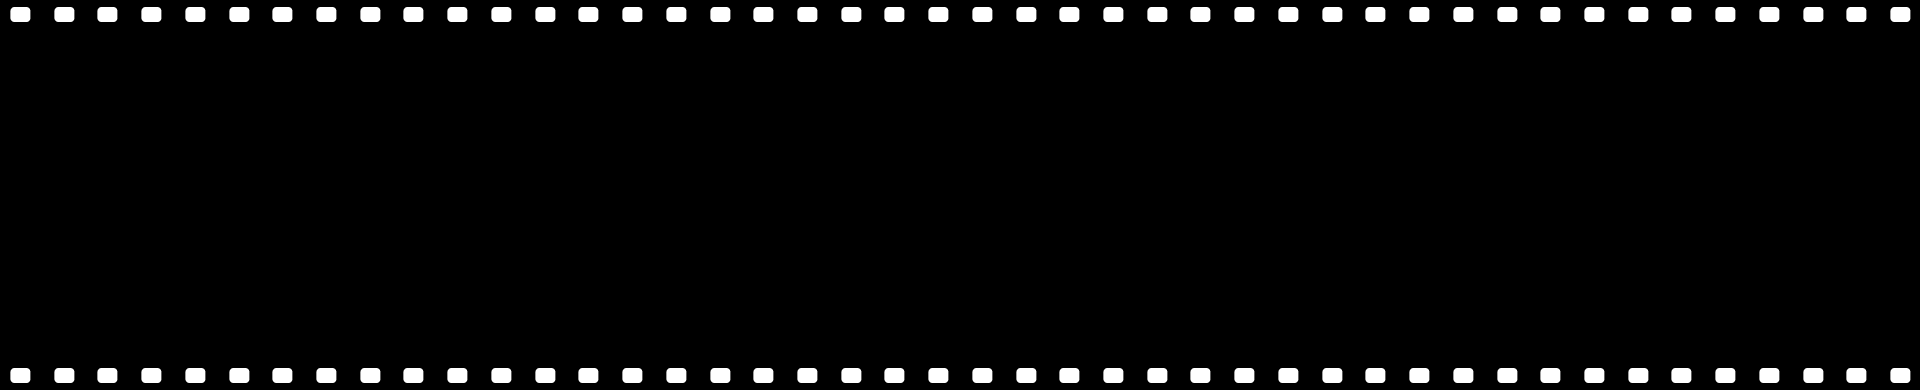
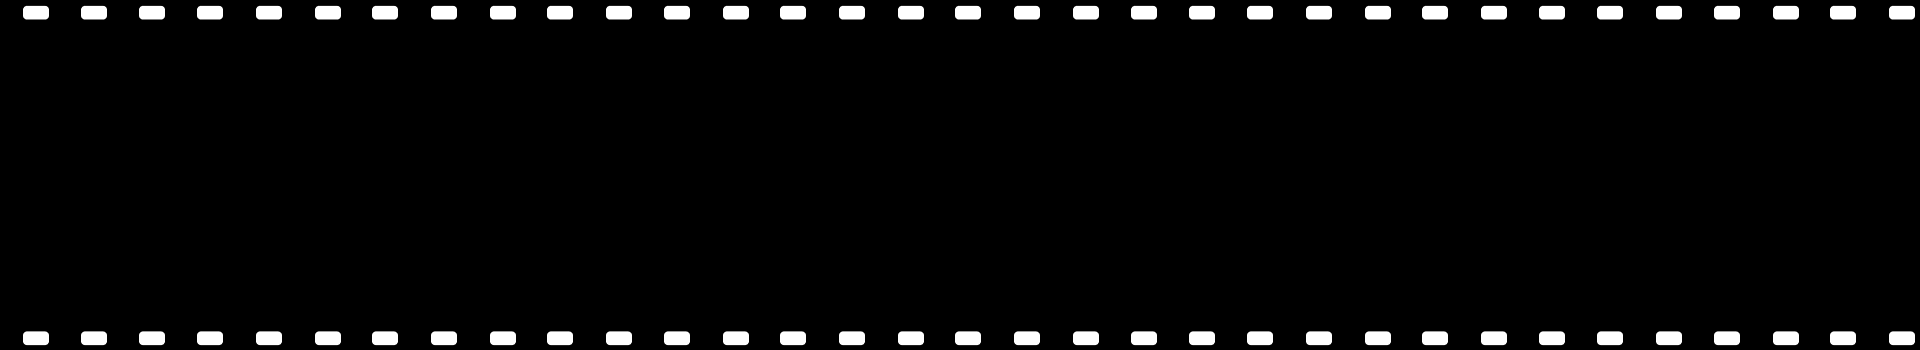
feat: implement upcoming carousel (#33)
* feat: implement upcoming-carousel section (#32)

- UpcomingCarousel 구현 (MovieCard + D-day 적용)
- MovieCard badge prop 추가, loading="lazy" 적용
- layout.ts PAGE_PADDING_X 상수 추가

* refactor: improve hot-and-new carousel layout (#30)

- HotAndNew 카드 크기 조정
- HotANdNewCarousel paddingLeft PAGE_PADDING_X 적용
- CarouselNavButton style prop 추가
- HeroBanner fallback 이미지 처리 추가

* style: improve section-title spacing and film strip height (#32)

- 필름 이미지 높이 수정
- 섹션 타이틀, 캐러셀 사이 간격 조정

---------

Changed region(s): [[0.0, 0.9429, 1.0, 1.0], [0.0, 0.0, 1.0, 0.0571]]

diff --git a/src/pages/home/components/HotAndNewCarousel.tsx b/src/pages/home/components/HotAndNewCarousel.tsx
@@ -2,7 +2,7 @@ import { useNavigate } from 'react-router-dom'
 
 import filmStrip from '@/assets/subtract.png'
 import { CarouselNavButton, SectionTitle } from '@/components'
-import { ROUTES } from '@/constants'
+import { PAGE_PADDING_X, ROUTES } from '@/constants'
 import { useCarousel } from '@/hooks'
 import { MOCK_MOVIES } from '@/mocks/movie'
 import { getStatusBadge } from '@/utils/badge'
@@ -25,16 +25,21 @@ export default function HotAndNewCarousel() {
         className="mt-25 px-25"
       />
 
-      <section className="relative py-8">
+      <section className="relative mt-3 py-8">
         <img
           src={filmStrip}
           alt="필름배경"
           aria-hidden="true"
-          className="absolute inset-0 h-full w-full object-cover opacity-40"
+          className="absolute inset-0 h-full w-full object-contain opacity-40"
         />
 
-        <div className="relative left-25 z-10">
-          <div className="overflow-hidden" ref={emblaRef}>
+        {/* overflow-hidden 밖에 relative 감싸기 */}
+        <div className="relative z-10 mt-1">
+          <div
+            className="overflow-hidden"
+            ref={emblaRef}
+            style={{ paddingLeft: PAGE_PADDING_X }}
+          >
             <div className="flex gap-5">
               {MOCK_MOVIES.map((movie) => (
                 <HotAndNewCard
@@ -42,27 +47,26 @@ export default function HotAndNewCarousel() {
                   backdropPath={movie.backdrop_path}
                   title={movie.title}
                   badge={getStatusBadge(movie.release_date)}
+                  onClick={() => navigate(ROUTES.MOVIE_DETAIL)}
                 />
               ))}
             </div>
           </div>
 
-          {canScrollPrev && (
-            <CarouselNavButton
-              onClick={goToPrev}
-              direction="prev"
-              disabled={!canScrollPrev}
-              className="absolute top-1/2 left-0 z-20 -translate-y-1/2"
-            />
-          )}
-          {canScrollNext && (
-            <CarouselNavButton
-              onClick={goToNext}
-              direction="next"
-              disabled={!canScrollNext}
-              className="absolute top-1/2 right-40 z-20 -translate-y-1/2"
-            />
-          )}
+          {/* 버튼은 overflow-hidden 밖에 */}
+          <CarouselNavButton
+            onClick={goToPrev}
+            direction="prev"
+            disabled={!canScrollPrev}
+            className="absolute top-1/2 z-20 -translate-y-1/2"
+            style={{ left: PAGE_PADDING_X - 24 }}
+          />
+          <CarouselNavButton
+            onClick={goToNext}
+            direction="next"
+            disabled={!canScrollNext}
+            className="absolute top-1/2 right-5 z-20 -translate-y-1/2"
+          />
         </div>
       </section>
     </>

diff --git a/src/pages/home/components/UpcommingCarousel.tsx b/src/pages/home/components/UpcommingCarousel.tsx
@@ -1,0 +1,62 @@
+import { useNavigate } from 'react-router-dom'
+
+import { CarouselNavButton, MovieCard, SectionTitle } from '@/components'
+import { PAGE_PADDING_X, ROUTES } from '@/constants'
+import { useCarousel } from '@/hooks'
+import { MOCK_MOVIES } from '@/mocks/movie'
+import { getStatusBadge } from '@/utils/badge'
+
+import { HOME_SECTION_TITLES } from '../constants'
+
+export default function UpcomingCarousel() {
+  const navigate = useNavigate()
+  const { emblaRef, canScrollPrev, canScrollNext, goToPrev, goToNext } =
+    useCarousel({
+      options: { loop: false },
+    })
+
+  return (
+    <section>
+      <div className="mt-10 px-25">
+        <SectionTitle
+          title={HOME_SECTION_TITLES.UPCOMING}
+          onMoreClick={() => navigate(ROUTES.HOME)}
+        />
+      </div>
+
+      <div className="relative mt-2">
+        <div
+          className="overflow-hidden"
+          ref={emblaRef}
+          style={{ paddingLeft: PAGE_PADDING_X }}
+        >
+          <div className="flex gap-5">
+            {MOCK_MOVIES.map((movie) => (
+              <MovieCard
+                key={movie.id}
+                posterPath={movie.poster_path}
+                title={movie.title}
+                badge={getStatusBadge(movie.release_date)}
+                onClick={() => navigate(ROUTES.MOVIE_DETAIL)}
+                className="h-[300px] w-[200px] shrink-0"
+              />
+            ))}
+          </div>
+        </div>
+
+        <CarouselNavButton
+          onClick={goToPrev}
+          direction="prev"
+          disabled={!canScrollPrev}
+          className="absolute top-1/2 left-20 z-20 -translate-y-1/2"
+        />
+        <CarouselNavButton
+          onClick={goToNext}
+          direction="next"
+          disabled={!canScrollNext}
+          className="absolute top-1/2 right-5 z-20 -translate-y-1/2"
+        />
+      </div>
+    </section>
+  )
+}

diff --git a/src/pages/home/components/HeroBanner.tsx b/src/pages/home/components/HeroBanner.tsx
@@ -2,6 +2,7 @@ import Autoplay from 'embla-carousel-autoplay'
 import { ChevronLeftIcon, ChevronRightIcon } from 'lucide-react'
 import { useNavigate } from 'react-router-dom'
 
+import fallback from '@/assets/fallback.png'
 import { ROUTES } from '@/constants'
 import { useCarousel } from '@/hooks'
 import { MOCK_MOVIES } from '@/mocks/movie'
@@ -11,6 +12,9 @@ import { cn } from '@/utils/cn'
 
 export default function HeroBanner() {
   const navigate = useNavigate()
+  const handleError = (e: React.SyntheticEvent<HTMLImageElement>) => {
+    e.currentTarget.src = fallback
+  }
   const { emblaRef, selectedIndex, goToPrev, goToNext, scrollTo } = useCarousel(
     {
       options: {
@@ -53,6 +57,8 @@ export default function HeroBanner() {
                   src={movie.backdrop_path}
                   alt={movie.title}
                   className="h-full w-full object-cover"
+                  loading="lazy"
+                  onError={handleError}
                 />
                 <div className="absolute inset-0 bg-gradient-to-t from-black via-black/64 to-transparent" />
 

diff --git a/src/components/common/movie-card/MovieCard.tsx b/src/components/common/movie-card/MovieCard.tsx
@@ -7,6 +7,7 @@ type MovieCardProps = {
   title: string
   posterPath: string
   rating?: number
+  badge?: string
   onClick?: () => void
   className?: string
 }
@@ -15,6 +16,7 @@ export function MovieCard({
   title,
   posterPath,
   rating,
+  badge,
   onClick,
   className,
 }: MovieCardProps) {
@@ -34,6 +36,7 @@ export function MovieCard({
         src={posterPath}
         alt={title}
         className="block h-full w-full object-cover"
+        loading="lazy"
         onError={handleError}
       />
 
@@ -41,6 +44,13 @@ export function MovieCard({
       <div className="absolute inset-0 flex items-end bg-black/50 p-3 opacity-0 transition-opacity duration-300 group-hover:opacity-100">
         <p className="line-clamp-2 font-semibold text-sm text-white">{title}</p>
       </div>
+
+      {/* 상태뱃지 */}
+      {badge && (
+        <div className="absolute top-2 left-2 rounded bg-bg-base/80 px-2 py-1.5 font-medium text-xs text-white">
+          {badge}
+        </div>
+      )}
 
       {/* 별점 뱃지 */}
       {rating !== undefined && (

diff --git a/src/pages/home/components/HotAndNewCard.tsx b/src/pages/home/components/HotAndNewCard.tsx
@@ -1,20 +1,32 @@
+import fallback from '@/assets/fallback.png'
+
 type HotAndNewCardProps = {
   backdropPath: string
   title: string
   badge: string
+  onClick: () => void
 }
 
 export default function HotAndNewCard({
   backdropPath,
   title,
   badge,
+  onClick,
 }: HotAndNewCardProps) {
+  const handleError = (e: React.SyntheticEvent<HTMLImageElement>) => {
+    e.currentTarget.src = fallback
+  }
+
   return (
-    <div className="relative h-[325px] w-[560px] shrink-0 overflow-hidden rounded-lg">
+    <div
+      onClick={onClick}
+      className="relative h-[280px] w-[458px] shrink-0 overflow-hidden rounded-lg"
+    >
       <img
         src={backdropPath}
         alt={title}
         className="h-full w-full object-cover"
+        onError={handleError}
       />
       <div className="absolute inset-0 bg-gradient-to-t from-black via-black/40 to-transparent" />
       <div className="absolute top-4 left-4 rounded bg-bg-base/80 px-2 py-1.5 font-medium text-xs text-white">

diff --git a/src/components/common/carousel-nav/CarouselNav.tsx b/src/components/common/carousel-nav/CarouselNav.tsx
@@ -7,6 +7,7 @@ type CarouselNavButtonProps = {
   direction: 'prev' | 'next'
   className?: string
   disabled: boolean
+  style?: React.CSSProperties
 }
 
 export function CarouselNavButton({
@@ -14,11 +15,13 @@ export function CarouselNavButton({
   direction,
   className,
   disabled,
+  style,
 }: CarouselNavButtonProps) {
   return (
     <button
       onClick={onClick}
       disabled={disabled}
+      style={style}
       className={cn(
         'flex h-12 w-12 items-center justify-center rounded-full',
         'border border-white bg-white/20 transition-colors hover:bg-white/40',

diff --git a/src/pages/home/index.tsx b/src/pages/home/index.tsx
@@ -1,5 +1,6 @@
 import HeroBanner from './components/HeroBanner'
 import HotAndNewCarousel from './components/HotAndNewCarousel'
+import UpcomingCarousel from './components/UpcommingCarousel'
 
 export default function HomePage() {
   return (
@@ -7,6 +8,7 @@ export default function HomePage() {
       <HeroBanner />
 
       <HotAndNewCarousel />
+      <UpcomingCarousel />
     </main>
   )
 }

diff --git a/src/pages/home/constants.ts b/src/pages/home/constants.ts
@@ -2,4 +2,5 @@ export const HOME_SECTION_TITLES = {
   HOT_AND_NEW: 'Hot&New',
   RANKING: '오늘의 랭킹',
   COMMUNITY: '커뮤니티',
+  UPCOMING: '개봉예정작',
 } as const

diff --git a/src/constants/layout.ts b/src/constants/layout.ts
@@ -1,1 +1,2 @@
 export const HEADER_HEIGHT = 72
+export const PAGE_PADDING_X = 100
